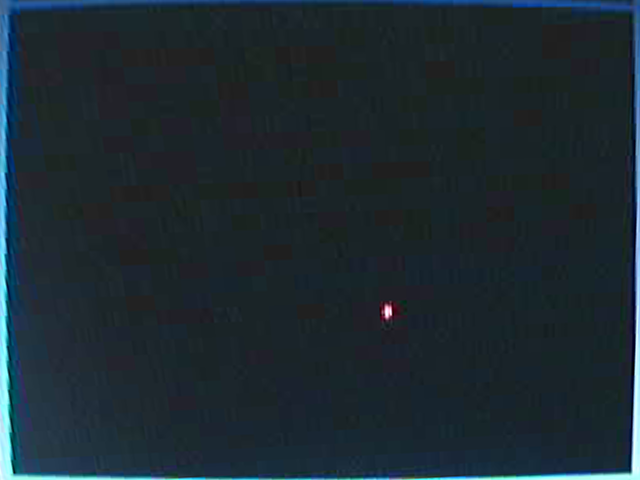
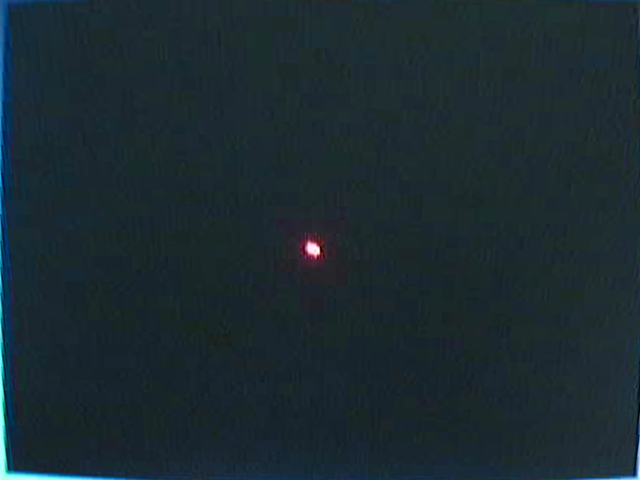
Fixed offset bug, close #9. And small changes

Changed region(s): [[0.0, 0.0, 1.0, 1.0], [0.4688, 0.4688, 0.5312, 0.5625], [0.5938, 0.625, 0.625, 0.6875]]

diff --git a/Form1.cs b/Form1.cs
@@ -58,64 +58,7 @@ namespace Pointboard
             {
                 Application.Idle += new EventHandler(Testmode);
                 lbl_info.Text = "Webcam not found. Using testmode";
-            }            
-        }
-
-        private void Testmode(object sender, EventArgs e)
-        {
-            //Load and display test image
-            Image_transformed = new Image<Bgr, byte>(FILE_TEST_2);
-            box_transformed.Image = Image_transformed.ToBitmap();
-
-            //Clear box_final
-            box_final.Image = null;
-            box_final.BackColor = Color.Black;
-
-            Filter();
-
-            Find_point();
-
-            System.Threading.Thread.Sleep(500);
-        }
-
-        private void Show_cam(object sender, EventArgs e)
-        {
-            //Load and display Webcam-image in box_original
-            Image_original = Webcam.QueryFrame();
-            box_original.Image = Image_original.ToBitmap();
-
-            if (!Calibrated)
-            {
-                btn_Calibrate.Enabled = true;
-                Calibrated = Calibrate_perspective();
             }
-            else
-            {
-                //Transform and display image
-                Bgr color_outside = new Bgr(Color.Red); //Detect/change later
-                Image_transformed = Image_original.WarpPerspective(Transformation_matrix, Emgu.CV.CvEnum.INTER.CV_INTER_CUBIC, Emgu.CV.CvEnum.WARP.CV_WARP_FILL_OUTLIERS, color_outside);
-                box_transformed.Image = Image_transformed.ToBitmap();
-
-                Filter();
-
-                Find_point();
-            }
-        }
-
-        private void Filter()
-        {
-            //Get red
-            Image_filtered = Image_transformed.SmoothBlur(5, 5).InRange(new Bgr(Color.DarkRed), new Bgr(Color.White));//Color.FromArgb(255, 100, 100)));
-            box_filtered.Image = Image_filtered.ToBitmap();
-
-            /*Rectangle rect = new Rectangle(378, 301, 20, 20);
-            Hsv average = Image_transformed.GetSubRect(rect).Convert<Hsv, byte>().GetAverage();
-
-            Hsv threshold_lower = new Hsv(average.Hue -20, average.Satuation -20, average.Value -20);
-            Hsv threshold_higher = new Hsv(average.Hue +20, 255, 255);
-
-            Image_filtered = Image_transformed.Convert<Hsv, byte>().InRange(threshold_lower, threshold_higher);
-            box_filtered.Image = Image_filtered.ToBitmap();*/
         }
 
         private void btn_Calibrate_Click(object sender, EventArgs e)
@@ -152,6 +95,66 @@ namespace Pointboard
             return true; //Successful
         }
 
+        private void Testmode(object sender, EventArgs e)
+        {
+            box_original.BackColor = Color.Gray;
+
+            //Load and display test image
+            Image_transformed = new Image<Bgr, byte>(FILE_TEST_2);
+            box_transformed.Image = Image_transformed.ToBitmap();
+
+            //Clear box_final
+            box_final.Image = null;
+            box_final.BackColor = Color.Black;
+
+            Filter();
+
+            Find_point();
+
+            //Simulate 30Fps
+            System.Threading.Thread.Sleep(33);
+        }
+
+        private void Show_cam(object sender, EventArgs e)
+        {
+            //Load and display Webcam-image in box_original
+            Image_original = Webcam.QueryFrame();
+            box_original.Image = Image_original.ToBitmap();
+
+            if (!Calibrated)
+            {
+                btn_Calibrate.Enabled = true;
+                Calibrated = Calibrate_perspective();
+            }
+            else
+            {
+                //Transform and display image
+                Bgr color_outside = new Bgr(Color.Red); //Detect/change later
+                Image_transformed = Image_original.WarpPerspective(Transformation_matrix, Emgu.CV.CvEnum.INTER.CV_INTER_CUBIC, Emgu.CV.CvEnum.WARP.CV_WARP_FILL_OUTLIERS, color_outside);
+                box_transformed.Image = Image_transformed.ToBitmap();
+
+                Filter();
+
+                Find_point();
+            }
+        }
+
+        private void Filter()
+        {
+            //Get red
+            Image_filtered = Image_transformed.SmoothBlur(5, 5).InRange(new Bgr(Color.DarkRed), new Bgr(Color.White));//Color.FromArgb(255, 100, 100)));
+            box_filtered.Image = Image_filtered.ToBitmap();
+
+            /*Rectangle rect = new Rectangle(298, 324, 30, 30);
+            Hsv average = Image_transformed.GetSubRect(rect).Convert<Hsv, byte>().GetAverage();
+
+            Hsv threshold_lower = new Hsv(average.Hue -20, average.Satuation -20, average.Value -20);
+            Hsv threshold_higher = new Hsv(average.Hue +20, 255, 255);
+
+            Image_filtered = Image_transformed.Convert<Hsv, byte>().InRange(threshold_lower, threshold_higher);
+            box_filtered.Image = Image_filtered.ToBitmap();*/
+        }
+
         private void btn_Test_Click(object sender, EventArgs e)
         {
             if(File.Exists(FILE_TEST))
@@ -166,6 +169,10 @@ namespace Pointboard
 
         private void Find_point()
         {
+            //Get scale factors
+            Double factor_x = 1 - (Convert.ToDouble(box_original.Width) / Image_filtered.Width);
+            Double factor_y = 1 - (Convert.ToDouble(box_original.Height) / Image_filtered.Height);
+
             //Clear image
             if (box_final.Image != null)
             {
@@ -189,10 +196,14 @@ namespace Pointboard
             //Mark first circle
             if (circles.Length > 0)
             {
-                lbl_info.Text = circles[0].Center.X.ToString() + " " + circles[0].Center.Y.ToString();
+                //lbl_info.Text = circles[0].Center.X.ToString() + " " + circles[0].Center.Y.ToString();
                 Pen pen_circle = new Pen(Color.Blue, 3);
+
                 float radius = circles[0].Radius + pen_circle.Width;
-                Drawings.DrawEllipse(pen_circle, circles[0].Center.X - circles[0].Radius, circles[0].Center.Y - circles[0].Radius, radius * 2, radius * 2);
+                Rectangle rect = new Rectangle(Convert.ToInt32(factor_x * (circles[0].Center.X - circles[0].Radius)),
+                    Convert.ToInt32(factor_y * (circles[0].Center.Y - circles[0].Radius)),
+                    Convert.ToInt32(factor_x * radius * 2), Convert.ToInt32(factor_y * radius * 2));
+                Drawings.DrawEllipse(pen_circle, rect);//(pen_circle, circles[0].Center.X - circles[0].Radius, circles[0].Center.Y - circles[0].Radius, radius * 2, radius * 2);
             }
 
             /*Mark multiple circles

diff --git a/README.md b/README.md
@@ -1,7 +1,7 @@
 Laserboard
 ==========
 
-C# EmguCV project to use a laser pointer like a whiteboard-marker
+C# EmguCV project to use a laser pointer like a whiteboard marker using an ordinary webcam
 
 Screenshots
 -----------
